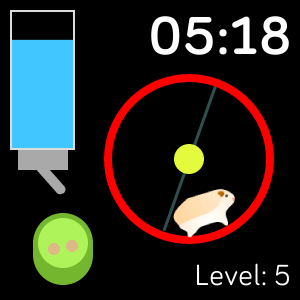
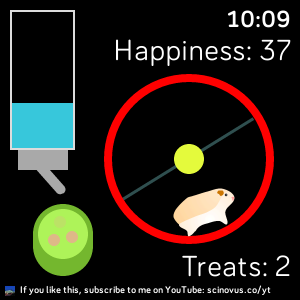
Add files via upload

diff --git a/README.md b/README.md
@@ -1,21 +1,31 @@
 # Pet Hamster App
 
-![screenshot](screenshot1.png)
-![screenshot](screenshot2.png)
+![screenshot1](screenshot1.png)
+![screenshot2](screenshot2.png)
+![screenshot3](screenshot3.png)
 
-## About:
-I created this hamster app for fun. It is both free and compatible with the Versa, Versa 2, and Versa Lite. Simply watch the hamster run on the wheel in his cage.
+## About
+I created this hamster app for fun. It is both free and compatible with the Versa, Versa 2, and Versa Lite. You used to be able to only watch the hamster run on the wheel in its cage, however, the most recent update brings some cool new features to make it into more of a game.
 
-## Features:
-- The level is based on your step count.
-- The water bottle is a battery level indicator.
-- The food pellets disappear based on your calories.
-- The hamster has a lighter and darker coloring option.
+## Acknowledgments
+This app was inspired by aBowman Hamster [Chrome extension](https://chromewebstore.google.com/detail/ab-hamster/jnpagnhcemblbjmaodhdeopdaoifdeag?hl=en-US). However, I have tweaked it a fair bit, as the extension has an interactive hamster, and my app is more of a static game.
 
-## View:
-https://gallery.fitbit.com/details/d3e4deb8-3de4-4dc6-9d4a-e6d7519a4fbd
+## Usage
+After you have installed this app (see below if needed), let the fun begin! The treat count is based on your step count, the water bottle is a battery level indicator, and the food pellets disappear based on your calories. These three things impact your hamster's happiness score, and your hamster is happier when it has eaten more food, has more treats, and has a full bottle of water. Depending on the happiness score, you can change the hamster's color to one of two or three options based on certain threshold values by tapping on it. At really high happiness levels, you can even change the color of the cage by tapping anywhere else. Additionally, there is a special happiness score that unlocks the rainbow hamster. Can you figure out how to get it?
 
-## Contact
-If you have any comments or suggestions, contact me via [Discord](https://discord.com/users/575795042933932071) or [email me](mailto:sagrawal8.fitbit.dev@gmail.com?subject=Pet_Hamster_Github). <br>
-For support and FAQs, please check out my website: [sagrawal8fitbit.dev](https://sagrawal8fitbit.dev). <br>
-If you like this app, consider subscribing to me on [YouTube](https://www.youtube.com/@ScinovusCrafted?sub_confirmation=1), where I post Minecraft content.
+## Installation
+This app has been approved in the Fitbit Gallery. The easiest way to install it is to search it in the Fitbit app on your phone and press `Install`. <br>
+Here is the link to it: https://gallery.fitbit.com/details/d3e4deb8-3de4-4dc6-9d4a-e6d7519a4fbd <br>
+Alternatively, you can download this repository and sideload it yourself, but I would recommend against doing that.
+
+## Bugs
+If you find one, feel free to open up a new issue or even better, create a pull request fixing it. But then again, this app is extremely simple, so I don't expect for there to be any.
+
+## Support
+For support and FAQs, please check out my website [sagrawal8fitbit.dev](https://sagrawal8fitbit.dev).
+
+## Author
+I'm a self-taught programmer who knows many languages and I'm into app, game, and web development. If you would like to contact me, my email is [sagrawal8.fitbit.dev@gmail.com](mailto:sagrawal8.fitbit.dev@gmail.com?subject=Pet_Hamster_Github).
+
+## License
+This package is licensed under the [MIT License](LICENSE.txt).
